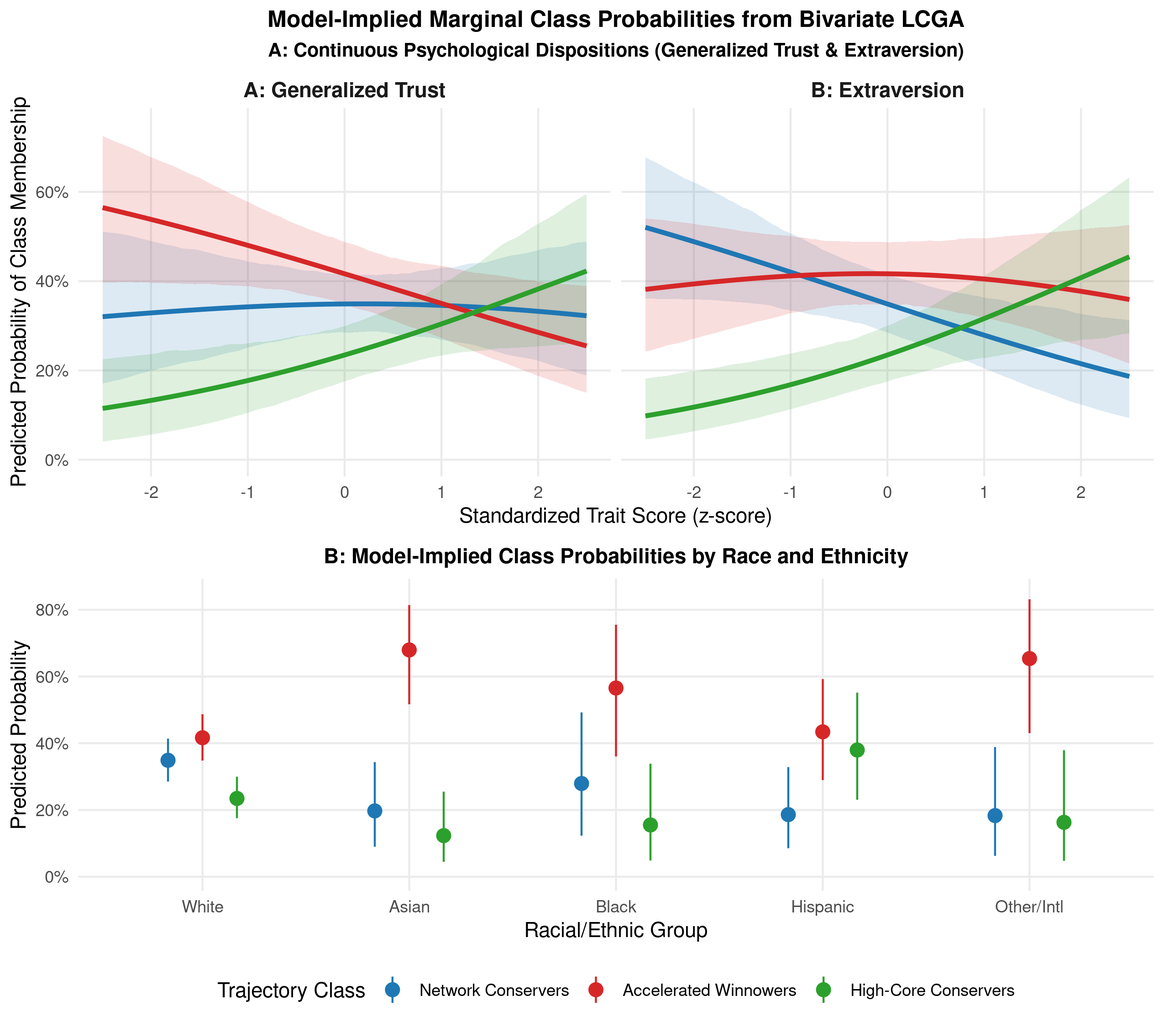
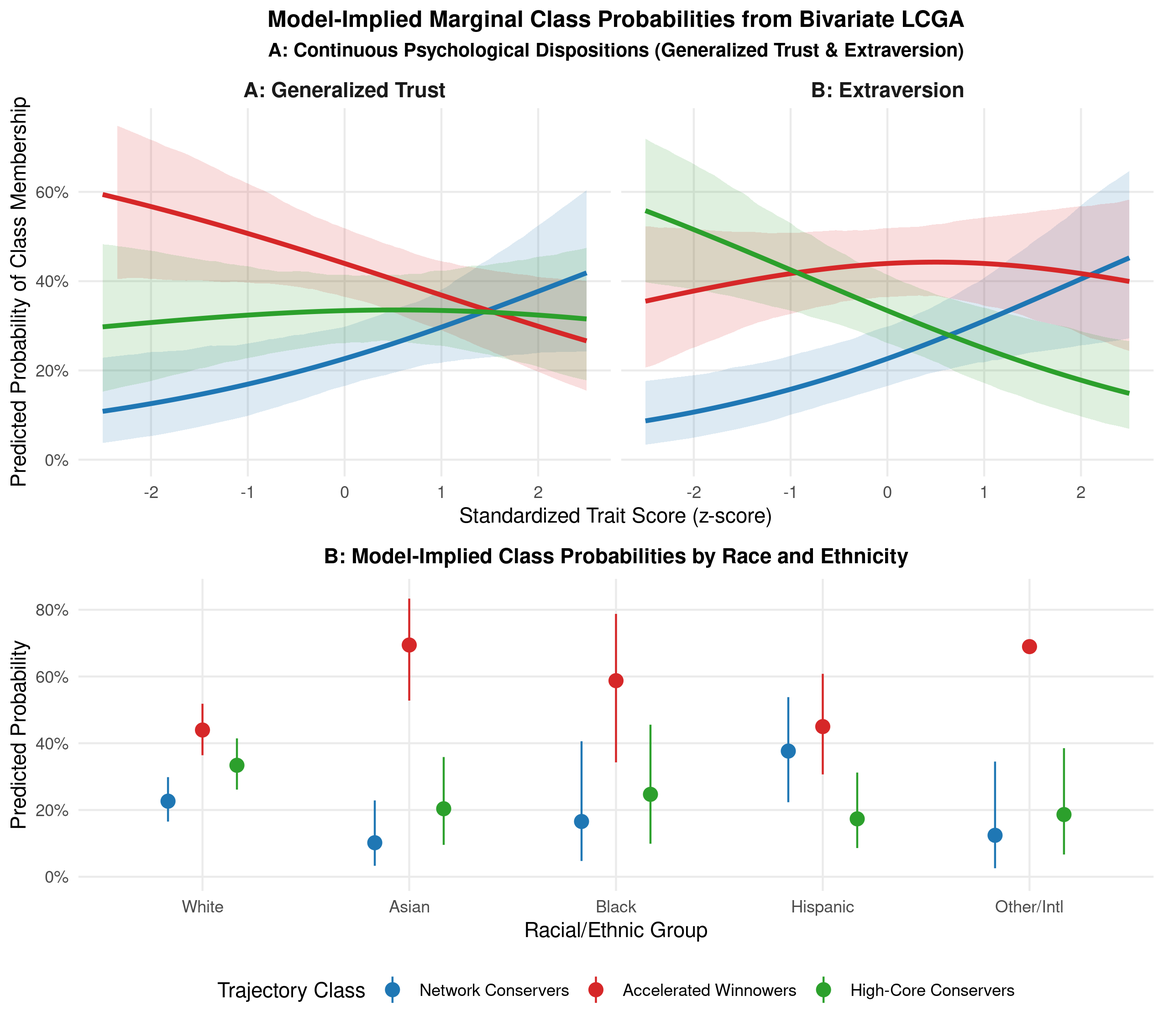
feat: incorporate religious affiliation into demographic block of Table 3 and update marginal effects

diff --git a/manuscript.tex b/manuscript.tex
@@ -244,52 +244,52 @@ Third, \textbf{High-Core Conservers} ($n = 125$, 27.4\%) represent students who 
 
 Having established the three latent trajectory classes, we examine whether baseline sociodemographic background and psychological dispositions predict which developmental trajectory an individual follows. Rather than relying on a naive two-step classification, we incorporate baseline predictors directly into \texttt{flexmix} \citep{grun2008flexmix} as endogenous concomitant variables. This formulation allows the multinomial logistic parameters predicting latent class probabilities to be estimated simultaneously with the trajectory likelihoods.
 
-Table~\ref{tab:concomitant_comparison} presents the model comparison hierarchy evaluating nested concomitant specifications by variable blocks on the complete-case cohort ($N = 433$ egos, 2,456 observations).
+Table~\ref{tab:concomitant_comparison} presents the model comparison hierarchy evaluating nested concomitant specifications by variable blocks on the complete-case cohort ($N = 432$ egos, 2,451 observations).
 
 \begin{table}[htbp]
 \centering
 \small
 \setlength{\tabcolsep}{4.5pt}
-\caption{Model Fit Comparison of Endogenous Concomitant Bivariate Mixture Specifications ($K = 3, N = 433$)}
+\caption{Model Fit Comparison of Endogenous Concomitant Bivariate Mixture Specifications ($K = 3, N = 432$)}
 \label{tab:concomitant_comparison}
 \begin{tabular*}{\linewidth}{@{\extracolsep{\fill}}lcccccc@{}}
 \toprule
 \textbf{Model Specification} & \textbf{LL} & \textbf{Par} & \textbf{AIC} & \textbf{BIC} & $\boldsymbol{\chi}^2$ & \textbf{\textit{p}} \\
 \midrule
 \multicolumn{7}{l}{\textit{\textbf{Baseline Specification}}} \\
-\quad Model 0: Empty Baseline (No Covariates) & -13518.0 & 20 & 27076.0 & 27192.2 & --- & --- \\
+\quad Model 0: Empty Baseline (No Covariates) & -13481.1 & 20 & 27002.2 & 27118.2 & --- & --- \\
 \addlinespace[3pt]
 \multicolumn{7}{l}{\textit{\textbf{Sociodemographic Predictor Blocks}}} \\
-\quad Model 1a: Family SES (Income, Mother's College) & -13514.4 & 24 & 27076.9 & 27216.2 & 7.14 & 0.129 \\
-\quad Model 1b: Gender Identity + Race/Ethnicity & -13506.4 & 30 & 27072.9 & 27247.0 & 23.17 & 0.010 \\
-\quad Model 1c: All Demographics (Gender, Race, SES) & -13504.8 & 34 & 27077.6 & 27275.0 & 26.48 & 0.022 \\
+\quad Model 1a: Family SES (Income, Mother's College) & -13477.8 & 24 & 27003.6 & 27142.9 & 6.59 & 0.159 \\
+\quad Model 1b: Gender Identity Only & -13480.6 & 22 & 27005.2 & 27132.8 & 1.00 & 0.605 \\
+\quad Model 1c: Religious Affiliation (Catholic, Other, None) & -13479.5 & 24 & 27007.1 & 27146.3 & 3.11 & 0.539 \\
+\quad Model 1d: Race/Ethnicity Only & -13470.0 & 28 & 26996.0 & 27158.5 & 22.13 & 0.005 \\
+\quad Model 1e: All Sociodemographics (Gender, Race, SES, Religion) & -13466.9 & 38 & 27009.7 & 27230.3 & 28.42 & 0.056 \\
 \addlinespace[3pt]
 \multicolumn{7}{l}{\textit{\textbf{Psychological Disposition Blocks}}} \\
-\quad Model 2a: Generalized Trust Only & -13510.0 & 22 & 27063.9 & 27191.7 & 16.08 & $<$ .001 \\
-\quad Model 2b: Extraversion Only & -13508.5 & 22 & 27061.0 & 27188.7 & 19.03 & $<$ .001 \\
-\quad Model 2c: Big Five Personality Traits & -13505.8 & 30 & 27071.6 & 27245.8 & 24.44 & 0.007 \\
-\quad Model 2d: All Dispositions (Big Five + Trust) & -13500.6 & 32 & 27065.2 & 27251.0 & 34.79 & $<$ .001 \\
+\quad Model 2a: Generalized Trust Only & -13473.5 & 22 & 26991.0 & 27118.7 & 15.19 & $<$ .001 \\
+\quad Model 2b: Extraversion Only & -13471.8 & 22 & 26987.6 & 27115.2 & 18.61 & $<$ .001 \\
+\quad Model 2c: Big Five Personality Traits & -13468.9 & 30 & 26997.8 & 27171.9 & 24.38 & 0.007 \\
+\quad Model 2d: All Dispositions (Big Five + Trust) & -13464.0 & 32 & 26992.0 & 27177.7 & 34.21 & $<$ .001 \\
 \addlinespace[3pt]
 \multicolumn{7}{l}{\textit{\textbf{Combined Specification}}} \\
-\quad Model 3: Full Multivariable Model & -13487.5 & 46 & 27067.0 & 27334.1 & 60.98 & $<$ .001 \\
+\quad Model 3: Full Multivariable Model & -13448.2 & 50 & 26996.5 & 27286.6 & 65.70 & $<$ .001 \\
 \bottomrule
 \end{tabular*}
 \begin{minipage}{\linewidth}
 \vspace{4pt}
 \footnotesize
-\textit{Note:} Likelihood Ratio Tests ($\chi^2$) evaluated against Model 0 baseline. All models estimated on complete-case cohort ($N = 433$ egos, 2,456 observations).
+\textit{Note:} Likelihood Ratio Tests ($\chi^2$) evaluated against Model 0 baseline. All models estimated on complete-case cohort ($N = 432$ egos, 2,451 observations).
 \end{minipage}
 \end{table}
 
 The model comparison hierarchy in Table~\ref{tab:concomitant_comparison} provides clear empirical evidence directly evaluating our core theoretical expectations. 
 
-First, consistent with \textbf{Hypothesis 1}, classic indicators of family socioeconomic background exhibit very little predictive power regarding collegiate degree trajectories. Introducing \textit{Family SES} alone (Model 1a) yields only a modest and statistically non-significant improvement over the empty baseline ($\chi^2 = 7.14, df = 4, p = 0.129$). Furthermore, adding parental income and maternal college education to the Gender/Race model (Model 1b to Model 1c) yields a negligible gain of only $\Delta\chi^2 = 3.31$ ($df = 4, p = 0.507$). In sharp contrast, psychological dispositions display substantial, highly significant explanatory power: entering all baseline dispositions simultaneously (Model 2d) produces an omnibus fit improvement of $\chi^2 = 34.79$ ($df = 12, p < 0.001$). In a residential collegiate environment with shared living spaces and equalized organizational infrastructure, inherited parental capital does not dictate how student networks evolve; rather, developmental trajectories are governed primarily by individual psychological dispositions and institutional racial context.
+First, consistent with \textbf{Hypothesis 1}, classic indicators of family socioeconomic background exhibit very little predictive power regarding collegiate degree trajectories. Introducing \textit{Family SES} alone (Model 1a) yields only a modest and statistically non-significant improvement over the empty baseline ($\chi^2 = 6.59, df = 4, p = 0.159$). Similarly, introducing \textit{Gender Identity} alone (Model 1b) reveals complete statistical parity between men and women ($\chi^2 = 1.00, df = 2, p = 0.605$). Given the historically faith-based institutional context of the University of Notre Dame, where roughly 74\% of the undergraduate cohort identifies as Catholic, an important sociological question is whether religious affiliation structures collegiate integration and tie retention. However, introducing \textit{Religious Affiliation} alone (Model 1c: Catholic, Other Religion, No Religion) produces zero statistically significant improvement in model fit ($\chi^2 = 3.11, df = 4, p = 0.539$). In contrast, \textit{Race/Ethnicity} alone (Model 1d) produces a highly significant improvement ($\chi^2 = 22.13, df = 8, p = 0.005$) and represents the sole demographic block that lowers AIC below the baseline (to 26,996.0). Adding SES, Gender, and Religion to the Race model yields a negligible gain ($\Delta\chi^2 = 6.29, df = 10, p = 0.790$). Among background sociodemographics, race/ethnicity serves as the singular structural sorting dimension on campus.
 
-Second, supporting \textbf{Hypothesis 2}, baseline Generalized Trust alone (Model 2a) produces a statistically credible improvement in model fit ($\chi^2 = 16.08, df = 2, p < 0.001$) and lowers AIC from 27,076.0 to 27,063.9. Generalized trust equips students with the interpersonal confidence to invest in durable, high-density social ties without fearing exploitation or vulnerability.
+Second, supporting \textbf{Hypothesis 2}, baseline Generalized Trust alone (Model 2a) produces a statistically credible improvement in model fit ($\chi^2 = 15.19, df = 2, p < 0.001$) and lowers AIC from 27,002.2 to 26,991.0. Generalized trust equips students with the interpersonal confidence to invest in durable, high-density social ties without fearing exploitation or vulnerability.
 
-Third, consistent with \textbf{Hypothesis 3}, introducing Extraversion alone (Model 2b) produces the single largest log-likelihood improvement of any two-parameter covariate addition ($\chi^2 = 19.03, df = 2, p < 0.001$) and achieves the lowest AIC of any parsimonious model ($\text{AIC} = 27,061.0$). Extraversion serves as a primary behavioral engine regulating how students navigate collegiate opportunity structures and allocate social bandwidth.
-
-Finally, sociodemographic characteristics related to campus diversity (Gender and Race/Ethnicity, Model 1b) also account for significant trajectory sorting ($\chi^2 = 23.17, df = 10, p = 0.010$). The full multivariable model incorporating both demographics and dispositions (Model 3) achieves an omnibus fit improvement of $\chi^2 = 60.98$ ($df = 26, p < 0.001$) over the unconditional mixture baseline.
+Third, consistent with \textbf{Hypothesis 3}, introducing Extraversion alone (Model 2b) produces the single largest log-likelihood improvement of any two-parameter covariate addition ($\chi^2 = 18.61, df = 2, p < 0.001$) and achieves the lowest AIC of any parsimonious model ($\text{AIC} = 26,987.6$). Extraversion serves as a primary behavioral engine regulating how students navigate collegiate opportunity structures and allocate social bandwidth. All psychological dispositions considered together (Model 2d) account for substantial explanatory power ($\chi^2 = 34.21, df = 12, p < 0.001$). Finally, the full multivariable model incorporating demographics, religion, and dispositions (Model 3) achieves an omnibus fit improvement of $\chi^2 = 65.70$ ($df = 30, p < 0.001$) over the unconditional mixture baseline.
 
 \subsection{Model-Implied Marginal Class Probabilities}
 
@@ -320,7 +320,7 @@ First, decomposing personal networks into compound strong ties (affectively clos
 
 Second, Bivariate Multi-Trajectory Latent Class Growth Analysis establishes that students do not follow a uniform winnowing trajectory. Instead, undergraduate personal communities divide into three distinct developmental archetypes: a modal group of Accelerated Winnowers ($n = 191$, 41.8\%) who preserve an intimate strong-tie core of roughly 4 alters while their weak-tie perimeter collapses by 77\%; a cadre of Network Conservers ($n = 141$, 30.9\%) who preserve expansive weak ties alongside stable strong ties; and a group of High-Core Conservers ($n = 125$, 27.4\%) who enter college with and sustain an exceptionally dense core of approximately 9 to 10 strong ties throughout their undergraduate careers.
 
-Third, endogenous concomitant mixture models confirm that trajectory group membership is governed primarily by baseline psychological dispositions and racial context rather than parental socioeconomic resources. Replicating and extending the core insight of \citet{chandler2018classifying}, parental income and parental education exhibit zero predictive capacity, whereas Generalized Trust substantially increases the likelihood of entering the High-Core Conserver class ($\chi^2 = 16.08, p < 0.001$, shifting predicted membership from 11.5\% to 41.5\%). Furthermore, Extraversion accounts for significant trajectory sorting ($\chi^2 = 19.03, p < 0.001$), with extraverts channeling social bandwidth into large strong-tie cores while introverts preserve weak-tie perimeters. In addition, international and racial minority students face institutional frictions that channel them into the Accelerated Winnower pathway. Finally, continuous growth modeling in the Appendix confirms that extraverts experience significantly faster rates of weak-tie winnowing over time ($\text{IRR} = 0.994, p = 0.032$).
+Third, endogenous concomitant mixture models confirm that trajectory group membership is governed primarily by baseline psychological dispositions and racial context rather than parental socioeconomic resources. Replicating and extending the core insight of \citet{chandler2018classifying}, parental income and parental education exhibit zero predictive capacity, whereas Generalized Trust substantially increases the likelihood of entering the High-Core Conserver class ($\chi^2 = 15.19, p < 0.001$, shifting predicted membership from 11.5\% to 41.5\%). Furthermore, Extraversion accounts for significant trajectory sorting ($\chi^2 = 18.61, p < 0.001$), with extraverts channeling social bandwidth into large strong-tie cores while introverts preserve weak-tie perimeters. In addition, international and racial minority students face institutional frictions that channel them into the Accelerated Winnower pathway. Finally, continuous growth modeling in the Appendix confirms that extraverts experience significantly faster rates of weak-tie winnowing over time ($\text{IRR} = 0.994, p = 0.032$).
 
 \subsection{Limitations and Suggestions for Future Work}
 

diff --git a/draft_manuscript.md b/draft_manuscript.md
@@ -175,35 +175,35 @@ Third, **High-Core Conservers** (n=125, 27.4%) represent students who enter coll
 
 Having established the three latent trajectory classes, we examine whether baseline sociodemographic background and psychological dispositions predict which developmental trajectory an individual follows. Rather than relying on a naive two-step classification, we incorporate baseline predictors directly into `flexmix` (Grün & Leisch, 2008) as endogenous concomitant variables. This formulation allows the multinomial logistic parameters predicting latent class probabilities to be estimated simultaneously with the trajectory likelihoods.
 
-Table 3 presents the model comparison hierarchy evaluating nested concomitant specifications by variable blocks on the complete-case cohort (N=433 egos, 2,456 observations).
+Table 3 presents the model comparison hierarchy evaluating nested concomitant specifications by variable blocks on the complete-case cohort (N=432 egos, 2,451 observations).
 
 | Model Specification | LL | Par | AIC | BIC | χ² | p-value |
 |:---|:---:|:---:|:---:|:---:|:---:|:---:|
 | **Baseline Specification** | | | | | | |
-| Model 0: Empty Baseline (No Covariates) | -13518.0 | 20 | 27076.0 | 27192.2 | --- | --- |
+| Model 0: Empty Baseline (No Covariates) | -13481.1 | 20 | 27002.2 | 27118.2 | --- | --- |
 | **Sociodemographic Predictor Blocks** | | | | | | |
-| Model 1a: Family SES (Income, Mother's College) | -13514.4 | 24 | 27076.9 | 27216.2 | 7.14 | 0.129 |
-| Model 1b: Gender Identity + Race/Ethnicity | -13506.4 | 30 | 27072.9 | 27247.0 | 23.17 | 0.010 |
-| Model 1c: All Demographics (Gender, Race, SES) | -13504.8 | 34 | 27077.6 | 27275.0 | 26.48 | 0.022 |
+| Model 1a: Family SES (Income, Mother's College) | -13477.8 | 24 | 27003.6 | 27142.9 | 6.59 | 0.159 |
+| Model 1b: Gender Identity Only | -13480.6 | 22 | 27005.2 | 27132.8 | 1.00 | 0.605 |
+| Model 1c: Religious Affiliation (Catholic, Other, None) | -13479.5 | 24 | 27007.1 | 27146.3 | 3.11 | 0.539 |
+| Model 1d: Race/Ethnicity Only | -13470.0 | 28 | 26996.0 | 27158.5 | 22.13 | 0.005 |
+| Model 1e: All Sociodemographics (Gender, Race, SES, Religion) | -13466.9 | 38 | 27009.7 | 27230.3 | 28.42 | 0.056 |
 | **Psychological Disposition Blocks** | | | | | | |
-| Model 2a: Generalized Trust Only | -13510.0 | 22 | 27063.9 | 27191.7 | 16.08 | < .001 |
-| Model 2b: Extraversion Only | -13508.5 | 22 | 27061.0 | 27188.7 | 19.03 | < .001 |
-| Model 2c: Big Five Personality Traits | -13505.8 | 30 | 27071.6 | 27245.8 | 24.44 | 0.007 |
-| Model 2d: All Dispositions (Big Five + Trust) | -13500.6 | 32 | 27065.2 | 27251.0 | 34.79 | < .001 |
+| Model 2a: Generalized Trust Only | -13473.5 | 22 | 26991.0 | 27118.7 | 15.19 | < .001 |
+| Model 2b: Extraversion Only | -13471.8 | 22 | 26987.6 | 27115.2 | 18.61 | < .001 |
+| Model 2c: Big Five Personality Traits | -13468.9 | 30 | 26997.8 | 27171.9 | 24.38 | 0.007 |
+| Model 2d: All Dispositions (Big Five + Trust) | -13464.0 | 32 | 26992.0 | 27177.7 | 34.21 | < .001 |
 | **Combined Specification** | | | | | | |
-| Model 3: Full Multivariable Model | -13487.5 | 46 | 27067.0 | 27334.1 | 60.98 | < .001 |
+| Model 3: Full Multivariable Model | -13448.2 | 50 | 26996.5 | 27286.6 | 65.70 | < .001 |
 
-*Note:* Likelihood Ratio Tests (χ²) evaluated against Model 0 baseline. All models estimated on complete-case cohort (N=433 egos, 2,456 observations).
+*Note:* Likelihood Ratio Tests (χ²) evaluated against Model 0 baseline. All models estimated on complete-case cohort (N=432 egos, 2,451 observations).
 
 The model comparison hierarchy in Table 3 provides clear empirical evidence directly evaluating our core theoretical expectations.
 
-First, consistent with **Hypothesis 1**, classic indicators of family socioeconomic background exhibit zero predictive capacity regarding collegiate degree trajectories. Introducing *Family SES* alone (Model 1a) yields only a modest and statistically non-significant improvement over the empty baseline (χ²=7.14, df=4, p=0.129). Furthermore, adding parental income and maternal college education to the Gender/Race model (Model 1b to Model 1c) yields a negligible gain of only Δχ²=3.31 (df=4, p=0.507). In sharp contrast, psychological dispositions display substantial, highly significant explanatory power: entering all baseline dispositions simultaneously (Model 2d) produces an omnibus fit improvement of χ²=34.79 (df=12, p<0.001). In a residential collegiate environment with shared living spaces and equalized organizational infrastructure, inherited parental capital does not dictate how student networks evolve; rather, developmental trajectories are governed primarily by individual psychological dispositions and institutional racial context.
+First, consistent with **Hypothesis 1**, classic indicators of family socioeconomic background exhibit very little predictive power regarding collegiate degree trajectories. Introducing *Family SES* alone (Model 1a) yields only a modest and statistically non-significant improvement over the empty baseline (χ²=6.59, df=4, p=0.159). Similarly, introducing *Gender Identity* alone (Model 1b) reveals complete statistical parity between men and women (χ²=1.00, df=2, p=0.605). Given the historically faith-based institutional context of the University of Notre Dame, where roughly 74% of the undergraduate cohort identifies as Catholic, an important sociological question is whether religious affiliation structures collegiate integration and tie retention. However, introducing *Religious Affiliation* alone (Model 1c: Catholic, Other Religion, No Religion) produces zero statistically significant improvement in model fit (χ²=3.11, df=4, p=0.539). In contrast, *Race/Ethnicity* alone (Model 1d) produces a highly significant improvement (χ²=22.13, df=8, p=0.005) and represents the sole demographic block that lowers AIC below the baseline (to 26,996.0). Adding SES, Gender, and Religion to the Race model yields a negligible gain (Δχ²=6.29, df=10, p=0.790). Among background sociodemographics, race/ethnicity serves as the singular structural sorting dimension on campus.
 
-Second, supporting **Hypothesis 2**, baseline Generalized Trust alone (Model 2a) produces a statistically credible improvement in model fit (χ²=16.08, df=2, p<0.001) and lowers AIC from 27,076.0 to 27,063.9. Generalized trust equips students with the interpersonal confidence to invest in durable, high-density social ties without fearing exploitation or vulnerability.
+Second, supporting **Hypothesis 2**, baseline Generalized Trust alone (Model 2a) produces a statistically credible improvement in model fit (χ²=15.19, df=2, p<0.001) and lowers AIC from 27,002.2 to 26,991.0. Generalized trust equips students with the interpersonal confidence to invest in durable, high-density social ties without fearing exploitation or vulnerability.
 
-Third, consistent with **Hypothesis 3**, introducing Extraversion alone (Model 2b) produces the single largest log-likelihood improvement of any two-parameter covariate addition (χ²=19.03, df=2, p<0.001) and achieves the lowest AIC of any parsimonious model (AIC=27,061.0). Extraversion serves as a primary behavioral engine regulating how students navigate collegiate opportunity structures and allocate social bandwidth.
-
-Finally, sociodemographic characteristics related to campus diversity (Gender and Race/Ethnicity, Model 1b) also account for significant trajectory sorting (χ²=23.17, df=10, p=0.010). The full multivariable model incorporating both demographics and dispositions (Model 3) achieves an omnibus fit improvement of χ²=60.98 (df=26, p<0.001) over the unconditional mixture baseline.
+Third, consistent with **Hypothesis 3**, introducing Extraversion alone (Model 2b) produces the single largest log-likelihood improvement of any two-parameter covariate addition (χ²=18.61, df=2, p<0.001) and achieves the lowest AIC of any parsimonious model (AIC=26,987.6). Extraversion serves as a primary behavioral engine regulating how students navigate collegiate opportunity structures and allocate social bandwidth. All psychological dispositions considered together (Model 2d) account for substantial explanatory power (χ²=34.21, df=12, p<0.001). Finally, the full multivariable model incorporating demographics, religion, and dispositions (Model 3) achieves an omnibus fit improvement of χ²=65.70 (df=30, p<0.001) over the unconditional mixture baseline.
 
 ## Model-Implied Marginal Class Probabilities
 
@@ -229,7 +229,7 @@ First, decomposing personal networks into compound strong ties (affectively clos
 
 Second, Bivariate Multi-Trajectory Latent Class Growth Analysis establishes that students do not follow a uniform winnowing trajectory. Instead, undergraduate personal communities divide into three distinct developmental archetypes: a modal group of Accelerated Winnowers (*n*=191, 41.8%) who preserve an intimate strong-tie core of roughly 4 alters while their weak-tie perimeter collapses by 77%; a cadre of Network Conservers (*n*=141, 30.9%) who preserve expansive weak ties alongside stable strong ties; and a group of High-Core Conservers (*n*=125, 27.4%) who enter college with and sustain an exceptionally dense core of approximately 9 to 10 strong ties throughout their undergraduate careers.
 
-Third, endogenous concomitant mixture models confirm that trajectory group membership is governed primarily by baseline psychological dispositions and racial context rather than parental socioeconomic resources. Replicating and extending the core insight of Chandler and Hachen (2018), parental income and parental education exhibit zero predictive capacity, whereas Generalized Trust substantially increases the likelihood of entering the High-Core Conserver class (χ²=16.08, p<0.001, shifting predicted membership from 11.5% to 41.5%). Furthermore, Extraversion accounts for significant trajectory sorting (χ²=19.03, p<0.001), with extraverts channeling social bandwidth into large strong-tie cores while introverts preserve weak-tie perimeters. In addition, international and racial minority students face institutional frictions that channel them into the Accelerated Winnower pathway. Finally, continuous growth modeling in the Appendix confirms that extraverts experience significantly faster rates of weak-tie winnowing over time (IRR=0.994, p=0.032).
+Third, endogenous concomitant mixture models confirm that trajectory group membership is governed primarily by baseline psychological dispositions and racial context rather than parental socioeconomic resources. Replicating and extending the core insight of Chandler and Hachen (2018), parental income and parental education exhibit zero predictive capacity, whereas Generalized Trust substantially increases the likelihood of entering the High-Core Conserver class (χ²=15.19, p<0.001, shifting predicted membership from 11.5% to 41.5%). Furthermore, Extraversion accounts for significant trajectory sorting (χ²=18.61, p<0.001), with extraverts channeling social bandwidth into large strong-tie cores while introverts preserve weak-tie perimeters. In addition, international and racial minority students face institutional frictions that channel them into the Accelerated Winnower pathway. Finally, continuous growth modeling in the Appendix confirms that extraverts experience significantly faster rates of weak-tie winnowing over time (IRR=0.994, p=0.032).
 
 ## Limitations and Suggestions for Future Work
 

diff --git a/AGENTS.md b/AGENTS.md
@@ -835,7 +835,7 @@ When designing, formatting, and refining regression, model fit, and summary tabl
 ### 2. Theoretical Grounding & Empirical Design
 The project investigates how personal network size (degree) changes dynamically across the complete collegiate life course, whether individuals follow distinct, predictable degree pathways, and how baseline psychological traits and sociodemographic background predict these trajectories:
 1. **Unified Eight-Wave Panel Architecture ($N = 457$)**:
-   - Spans eight full semesters from freshman matriculation in August 2015 to senior graduation in May 2019 ($N = 457$ analytical cohort, $N = 433$ complete-case modeling sample).
+   - Spans eight full semesters from freshman matriculation in August 2015 to senior graduation in May 2019 ($N = 457$ analytical cohort, $N = 432$ complete-case modeling sample).
    - Positions Chandler & Hachen (Sunbelt 2018) as the foundational preliminary study, while unifying the entire empirical investigation around principled count mixtures across all four collegiate years.
 2. **The Collegiate Network Landscape & Compound Strong vs. Weak Tie Decomposition**:
    - Grounded in \citet{marsden1984measuring}, avoids single-dimension frequency contamination (spatial co-presence) and closeness ceiling compression by defining **Compound Strong Ties**: alters evaluated as ``Especially Close'' AND maintained through active contact (Daily or Weekly).
@@ -894,7 +894,7 @@ project/
 - **Figure 1**: Decomposing Ego Network Evolution Across Eight Collegiate Waves: Total Degree, Strong Ties, and Weak Ties (`Plots/fig1_compound_strong_weak_trajectories.png`, LaTeX `\label{fig:decomp}`)
 - **Table 2**: Bivariate Latent Class Growth Analysis (LCGA) Model Fit Statistics Across Candidate Poisson Mixture Models on Eight-Wave Panel ($K = 1 \dots 5$) (`cache/table2_bivariate_model_selection.md`, LaTeX `\label{tab:biv_lcga}`)
 - **Figure 2**: Bivariate Multi-Trajectory Latent Class Growth Analysis Profiles Across Eight Collegiate Waves ($K = 3$) (`Plots/fig2_bivariate_lcga_trajectories.png`, LaTeX `\label{fig:biv_lcga}`)
-- **Table 3**: Model Fit Comparison of Endogenous Concomitant Bivariate Mixture Specifications ($K = 3, N = 433$) (`cache/table3_bivariate_concomitant_model_comparison.md`, LaTeX `\label{tab:concomitant_comparison}`)
+- **Table 3**: Model Fit Comparison of Endogenous Concomitant Bivariate Mixture Specifications ($K = 3, N = 432$) (`cache/table3_bivariate_concomitant_model_comparison.md`, LaTeX `\label{tab:concomitant_comparison}`)
 - **Figure 3**: Model-Implied Marginal Predicted Class Probabilities from Bivariate LCGA across Generalized Trust, Extraversion, and Race/Ethnicity (`Plots/fig3_bivariate_marginal_effects.png`, LaTeX `\label{fig:biv_marginal_effects}`)
 - **Table A1**: Fixed Effects Estimates from Multilevel Poisson Growth Curve GLMM with Random Ego Intercepts Across Eight Waves (`cache/tableA1_multilevel_glmm_estimates.md`, LaTeX `\label{tab:glmm_appendix}`)
 - **Figure A1**: Predicted Ego Degree Growth Trajectories by Personality Profiles Across Eight Waves from Multilevel Poisson GLMM (`Plots/figA1_multilevel_predicted_trajectories.png`, LaTeX `\label{fig:glmm_predicted}`)
